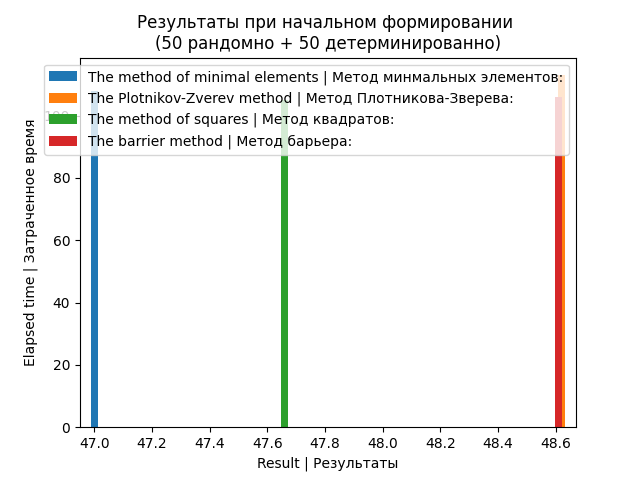
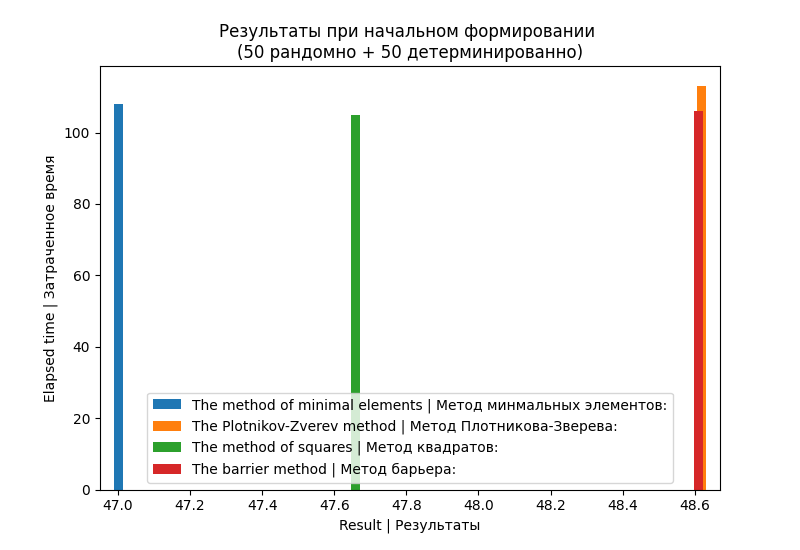
Histogram visualization

Changed region(s): [[0.0312, 0.0312, 0.9062, 1.0]]

diff --git a/diploma/experiments/visualizing_histogram.py b/diploma/experiments/visualizing_histogram.py
@@ -30,8 +30,7 @@ for i, elem in enumerate(elapsed_time):
 # elapsed_time = sorted(elapsed_time)
 # plt.yticks([int(elem[-2:]) for elem in elapsed_time])
 fig, ax = plt.subplots()
-mng = plt.get_current_fig_manager()
-mng.window.state('zoomed')
+fig.set_size_inches(8, 5.5)
 fig.canvas.set_window_title('Result')
 f1, f2, f3, f4 = [ax.bar(x, y, label=z, width=0.025) for x, y, z in zip(data, elapsed_time, str_methods)]
 # print(ax)
